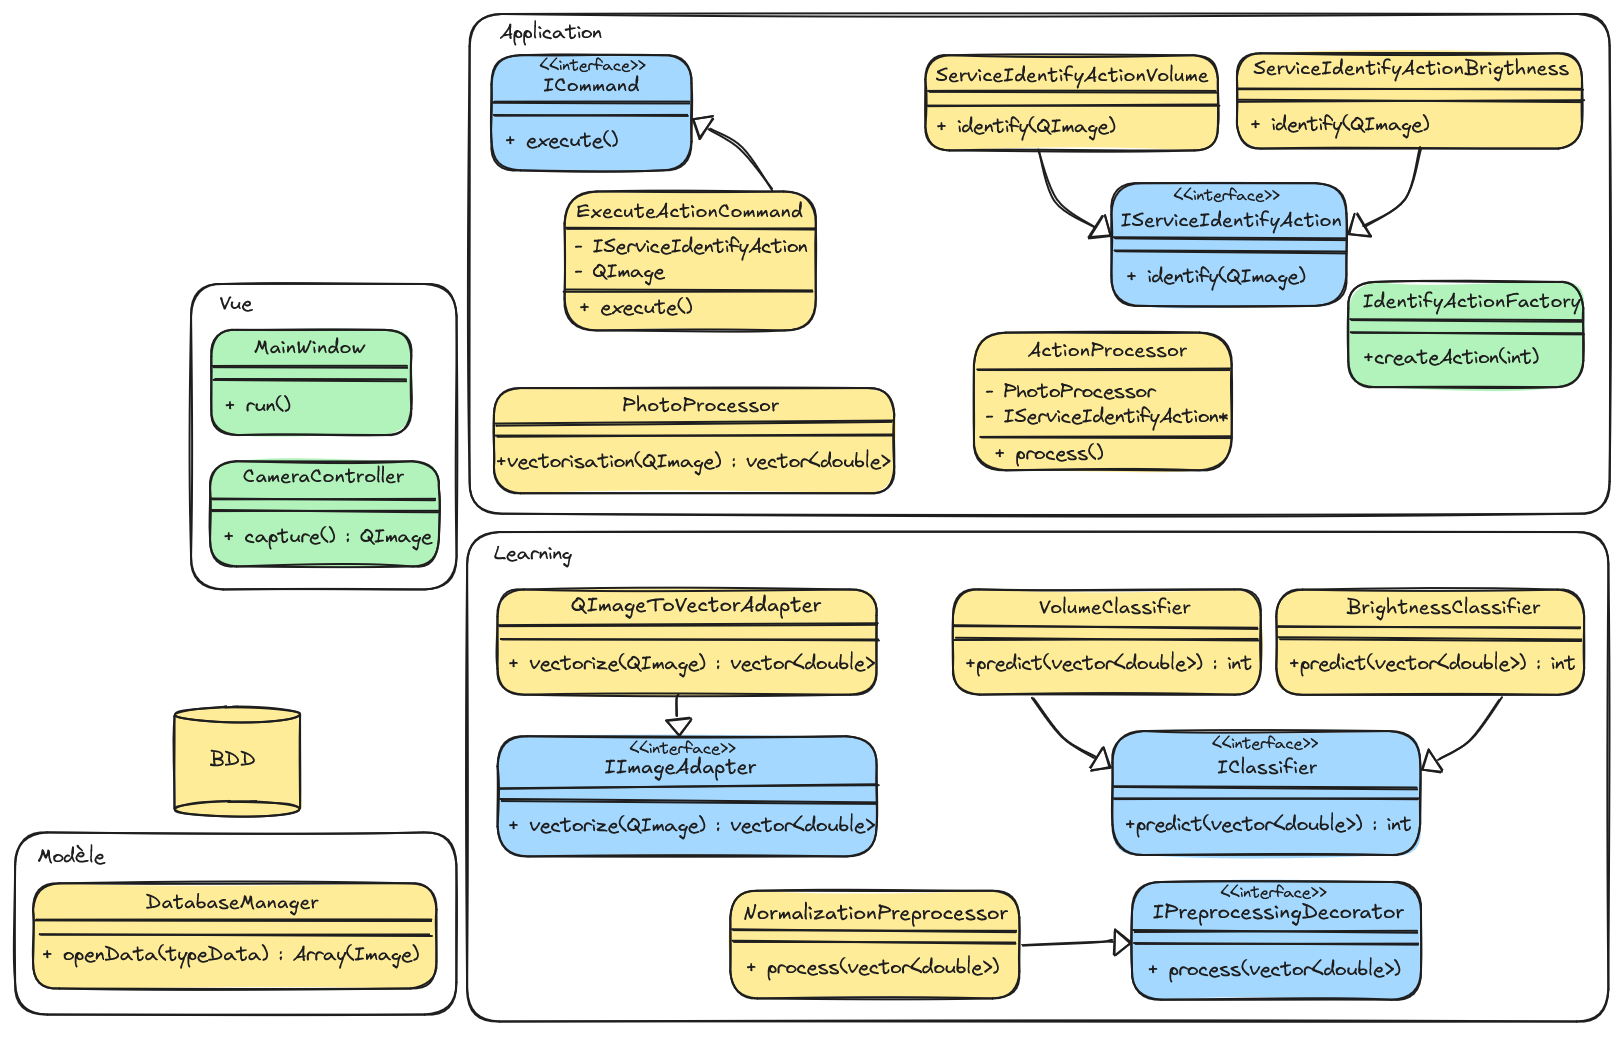
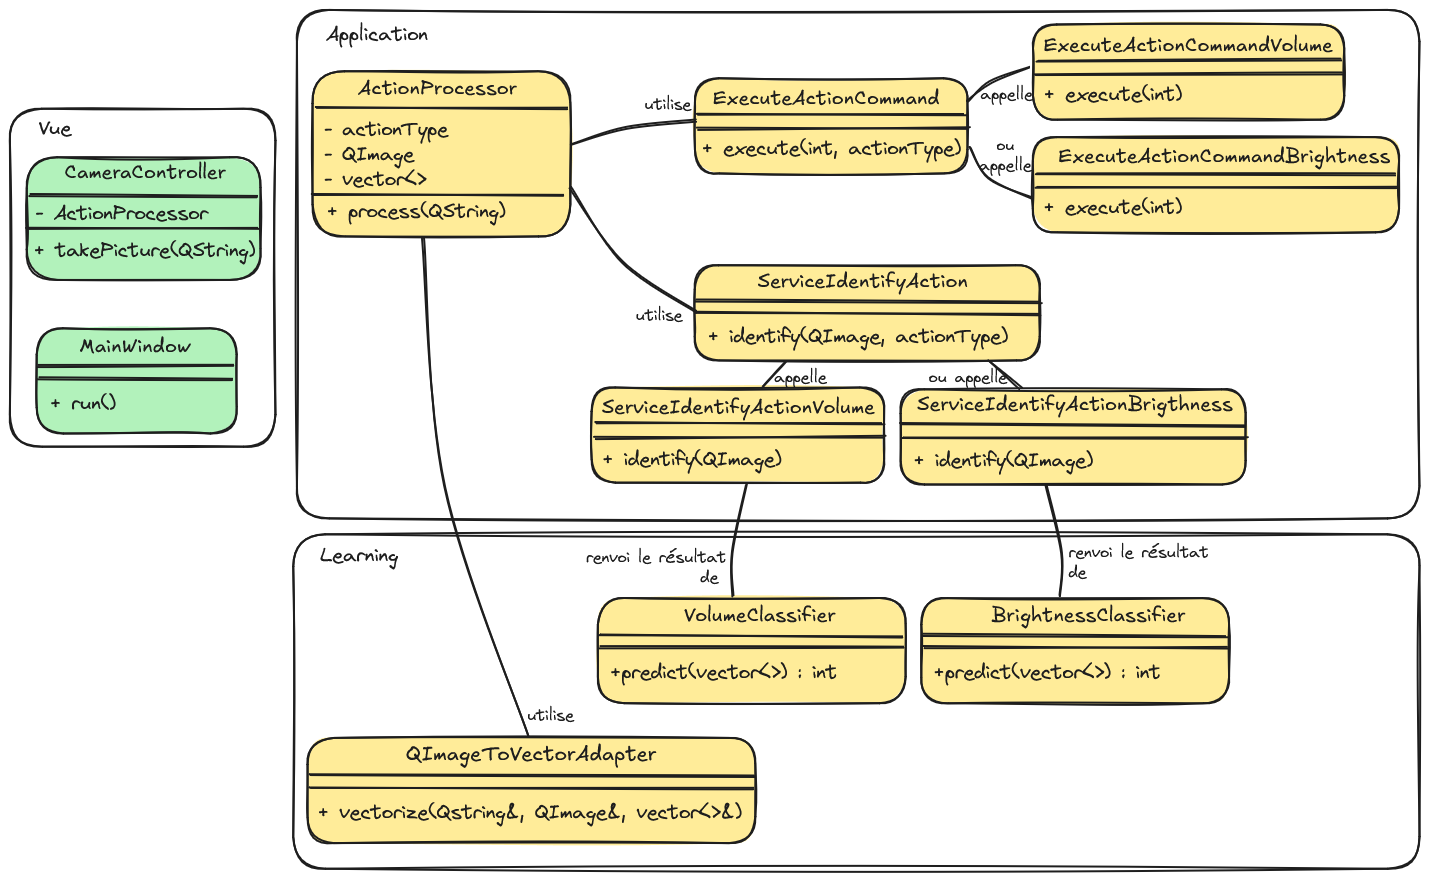
refractor : mise à jor de l'UML et du REAME pour la version temps réel

diff --git a/README.md b/README.md
@@ -5,8 +5,9 @@ Cette application mobile en C++ utilise le framework Qt et la caméra du disposi
 
 ## Versionnage
 Ce projet étant réalisé dans le cadre de deux cours distincts, il existe deux versions :  
-- **Cours IFT785-51** : L'objectif principal est l'assurance qualité, avec une structure orientée objet refactorisée, l'intégration de divers design patterns et des tests. Le traitement des images se fait par capture photo. Cette version est disponible dans les branches `main` et `oriente-objet`.  
-- **Cours IFT729-51** : L'objectif est une approche en temps réel, avec un code optimisé et une captation d'images en continu. Cette version est disponible dans la branche `temps-reel`.  
+- **Cours IFT785-51** : L'objectif principal est l’assurance qualité et l’architecture orientée objet. Cette version est disponible dans la branche `oriente-objet`.  
+- **Cours IFT729-51** : L’objectif est une approche **temps réel**, avec une architecture logicielle réduite, un traitement continu des images et une optimisation pour la réactivité. Cette version correspond à la branche actuelle : `temps-reel`.
+
 
 ## **Fonctionnalités principales**
 L'application repose sur l'utilisation de la caméra comme capteur pour la reconnaissance des gestes manuels et leur association à des actions définies.  
@@ -14,14 +15,12 @@ L'application repose sur l'utilisation de la caméra comme capteur pour la recon
 - Implémentation d'un traitement en temps réel pour garantir une réactivité optimale entre les gestes capturés et les actions déclenchées.  
 - Application des principes de conception orientés objet afin d'assurer une architecture robuste et évolutive du code.
 
-## **Design Patterns**
-Pour la version orientée objet du projet, j'ai choisi d'implémenter six design patterns :  
-- **Factory** : Création des objets `ServiceIdentifyAction` via une classe Factory.  
-- **Command** : Encapsulation des actions dans `ExecuteActionCommand`.  
-- **Adapter** : Conversion des images en données numériques pour l’apprentissage et la prédiction.  
-- **Observer** : Implémentation du pattern Observer dans le prétraitement des données pour faciliter l'évolution du code.  
-- **Strategy** : Mise en place d’une stratégie de reconnaissance dans `IServiceIdentifyAction` pour rendre le code plus modulable.  
-- **Dependency Injection** : Injection de `IServiceIdentifyAction*` dans `ActionProcessor` plutôt que d'instancier directement une action.
+---
+
+## **Livrables**
+
+- **Livrable L00** : [Lien vers le document](https://docs.google.com/document/d/1dxV90q5wieGHWotVLMUWe4uu0Uo-s-eVv2p3oOh0p9M/edit?usp=sharing)  
+- **Livrable L02** : [Lien vers le document](https://docs.google.com/document/d/16lkcUj3f9ajJCZeLFlRcMJWj8JKbY6gYf9sgYXHE6dw/edit?usp=sharing)  
 
 ---
 
